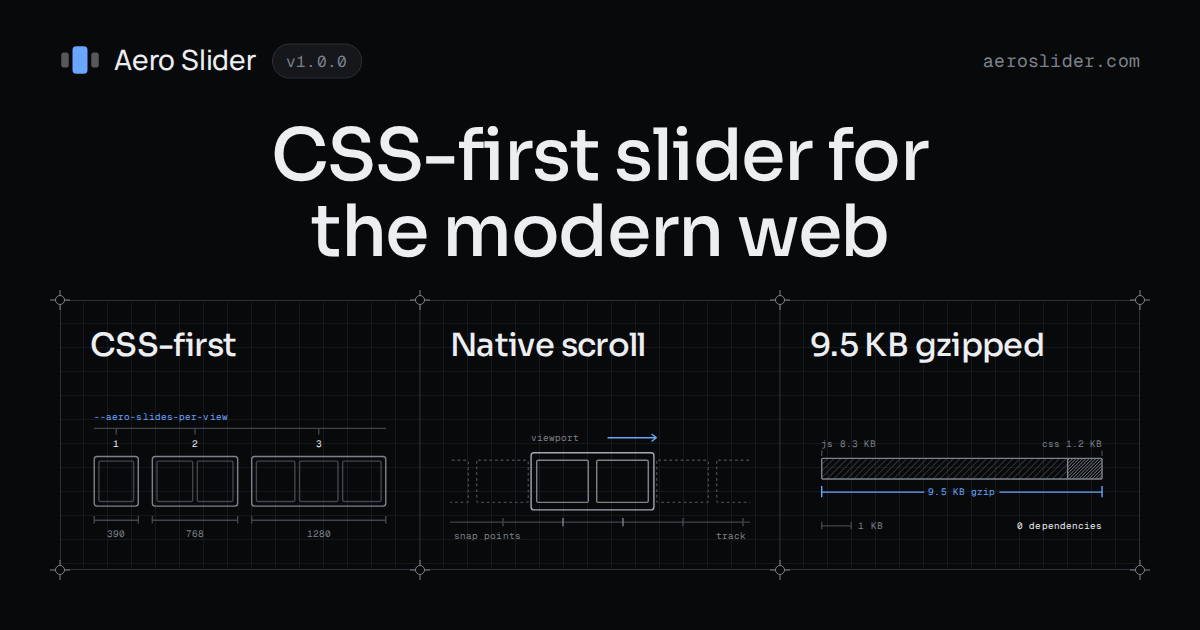
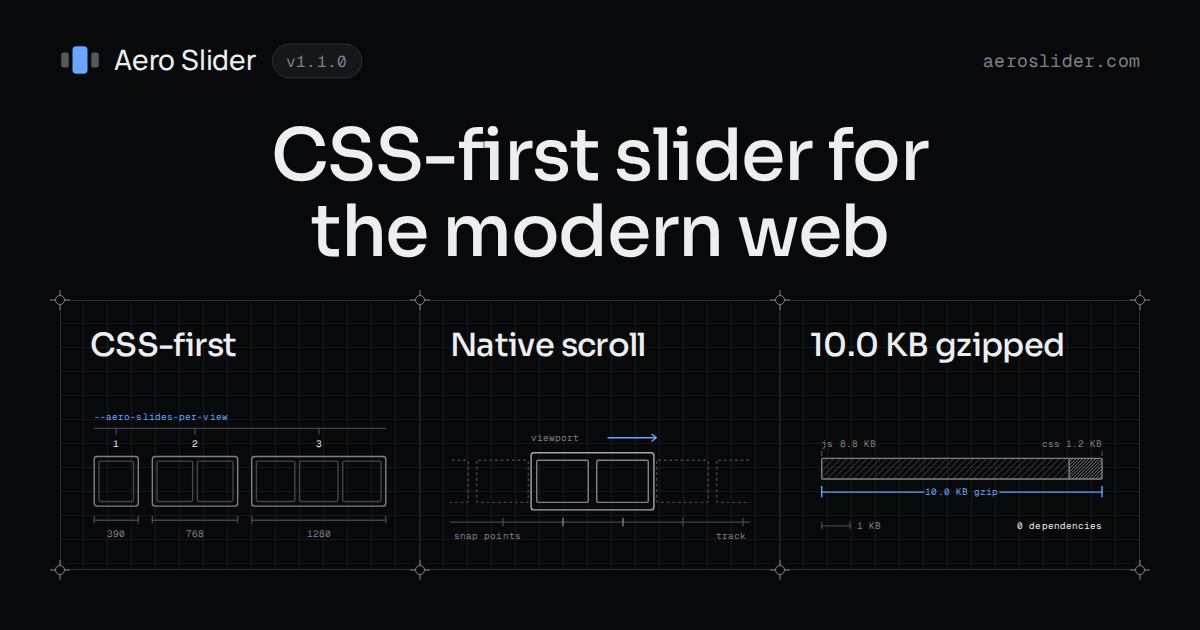
Bring the docs site and social card up to 1.1.0
The API reference now says what 1.1.0 changed for integrations:
goTo() reads no layout, so a slideChange handler can call it, and the
track should be moved with it rather than scrolled by hand. refresh()
and the CSS section say to call refresh() after changing a CSS variable
from script, since a new gap between fixed-width slides resizes nothing
and is otherwise found only when the track next comes to rest. The
aero:resize entry covers any slide and that late gap case.

The social card still said v1.0.0 and 9.5 KB. `bun run og-image` redrew
it at v1.1.0 and 10.0 KB (8.8 KB JavaScript, 1.2 KB CSS, gzipped). The
page's own size figures are worked out from dist/ at build time, so
they already followed.

diff --git a/site/src/data/api.ts b/site/src/data/api.ts
@@ -161,7 +161,7 @@ export const instanceMembers: Record<keyof SliderInstance, Doc<InstanceGroup>> =
     group: "Navigate",
     name: ".goTo(index, options?)",
     description:
-      "Scrolls to slide <code>index</code>. Out-of-range indexes wrap on a loop and clamp otherwise. <code>{ instant: true }</code> jumps there with no animation.",
+      "Scrolls to slide <code>index</code>. Out-of-range indexes wrap on a loop and clamp otherwise. <code>{ instant: true }</code> jumps there with no animation. It reads no layout, so it is cheap to call from an <code>aero:slideChange</code> handler, as a synced thumbnail strip does. Move the track with it rather than by scrolling the track yourself: the slider keeps its own record of the scroll offset.",
   },
   pause: {
     group: "Autoplay",
@@ -183,7 +183,7 @@ export const instanceMembers: Record<keyof SliderInstance, Doc<InstanceGroup>> =
     group: "Change",
     name: ".refresh()",
     description:
-      "Re-reads the slides from the track and rebuilds, resting on the same index. Call it after you add, remove or replace slides. A slide hidden with CSS still counts, so take it out of the track.",
+      "Re-reads the slides from the track and rebuilds, resting on the same index. Call it after you add, remove or replace slides, and after you change a CSS variable from script. A slide hidden with CSS still counts, so take it out of the track.",
   },
   element: {
     group: "Read state",
@@ -343,7 +343,7 @@ createSlider(el, { autoplay: true, loop: true });`),
     group: "Layout",
     type: "{}",
     description:
-      "The track or a slide changed size, from a window resize or a CSS variable such as <code>--aero-slides-per-view</code>. Fires before the slider re-measures and moves the slides back into place.",
+      "The track or any slide changed size, from a window resize, an image loading or a CSS variable such as <code>--aero-slides-per-view</code>. A new gap between slides of a fixed width resizes nothing, so it fires once the track comes to rest. Fires before the slider re-measures and moves the slides back into place.",
     useFor: "Hiding anything pinned to where a slide was, before the slider moves it.",
     snippet: recipe(`// A tooltip pinned to a slide would point at the wrong spot once slides move.
 const tip = document.querySelector(".slide-tip");
